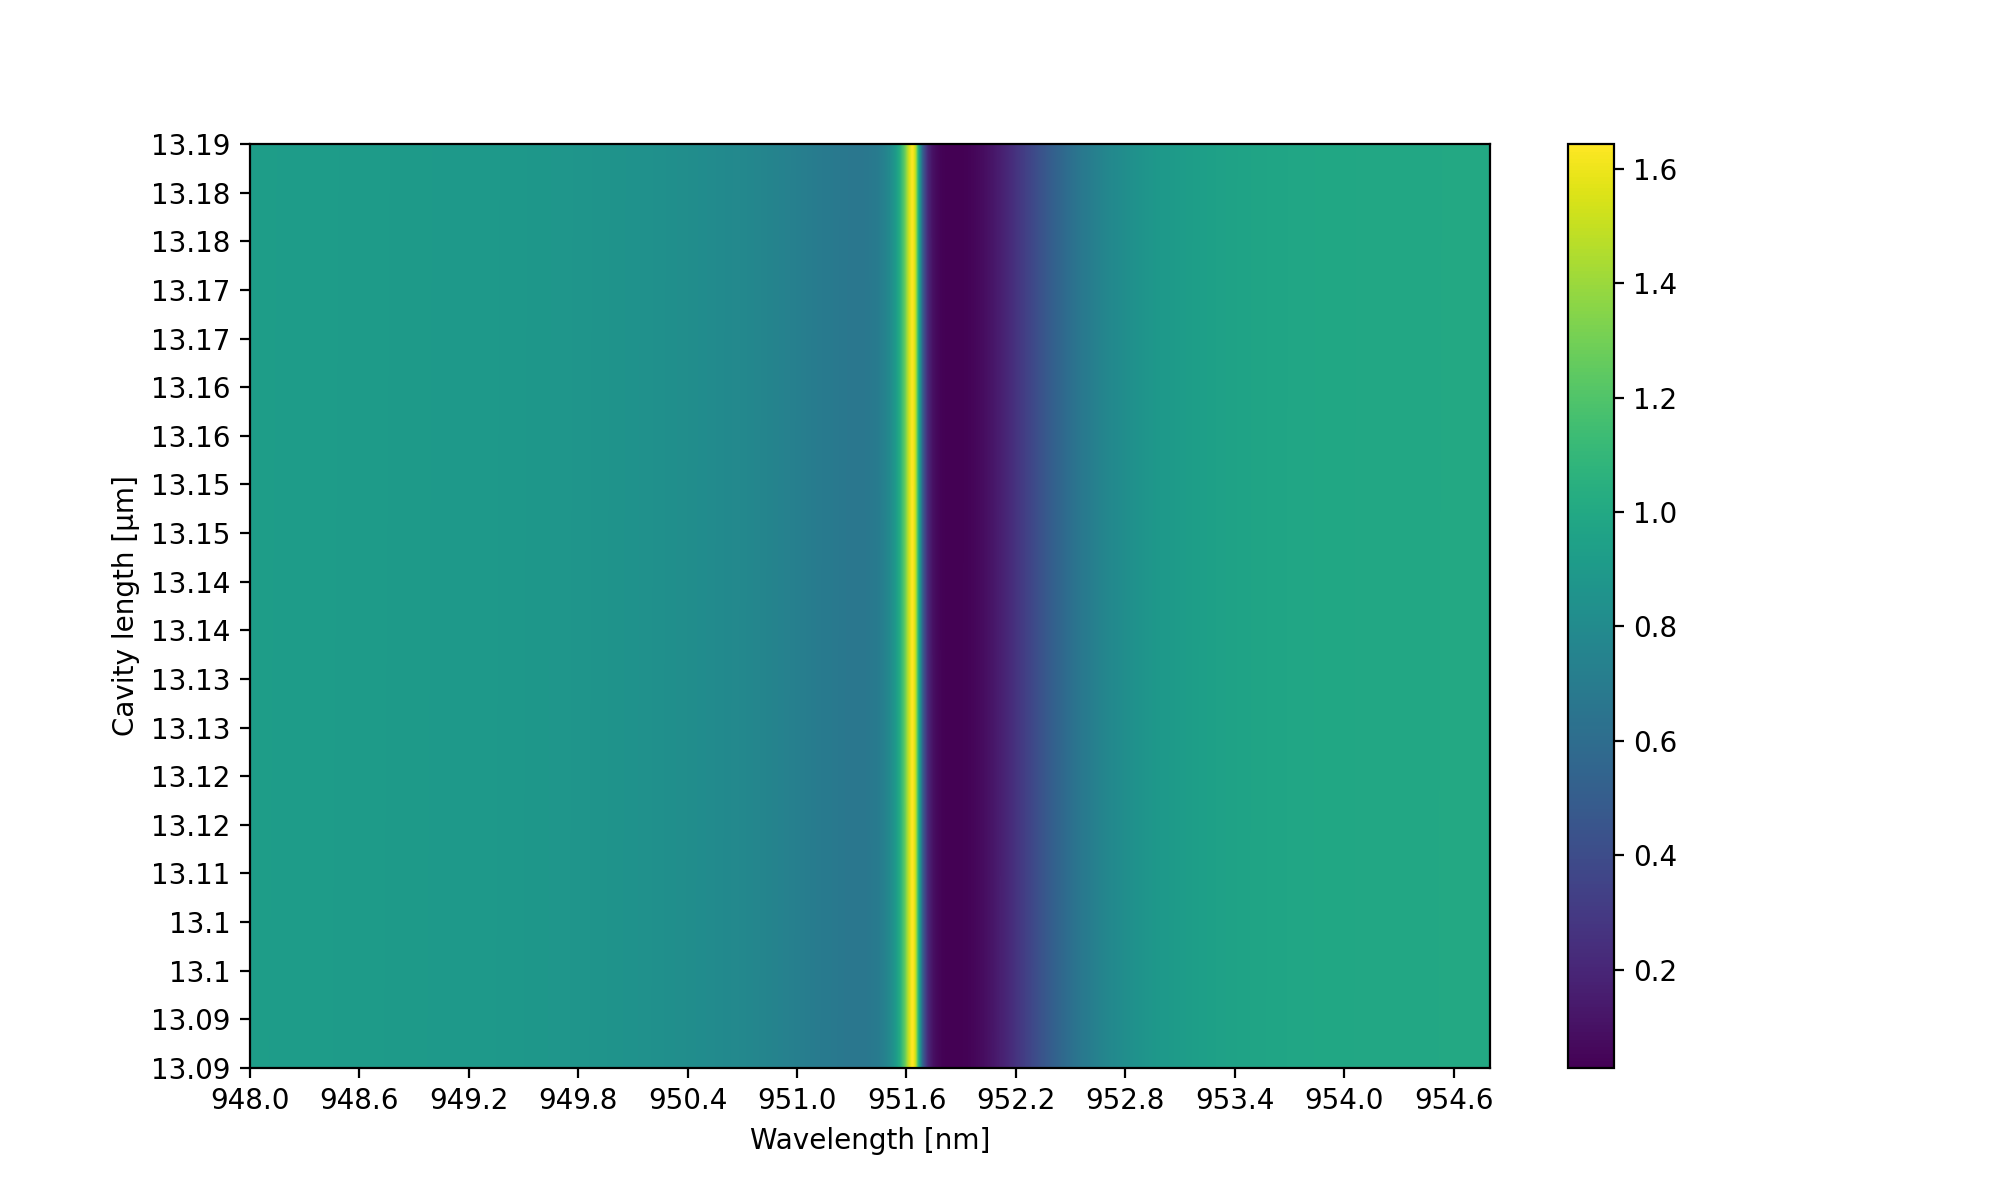
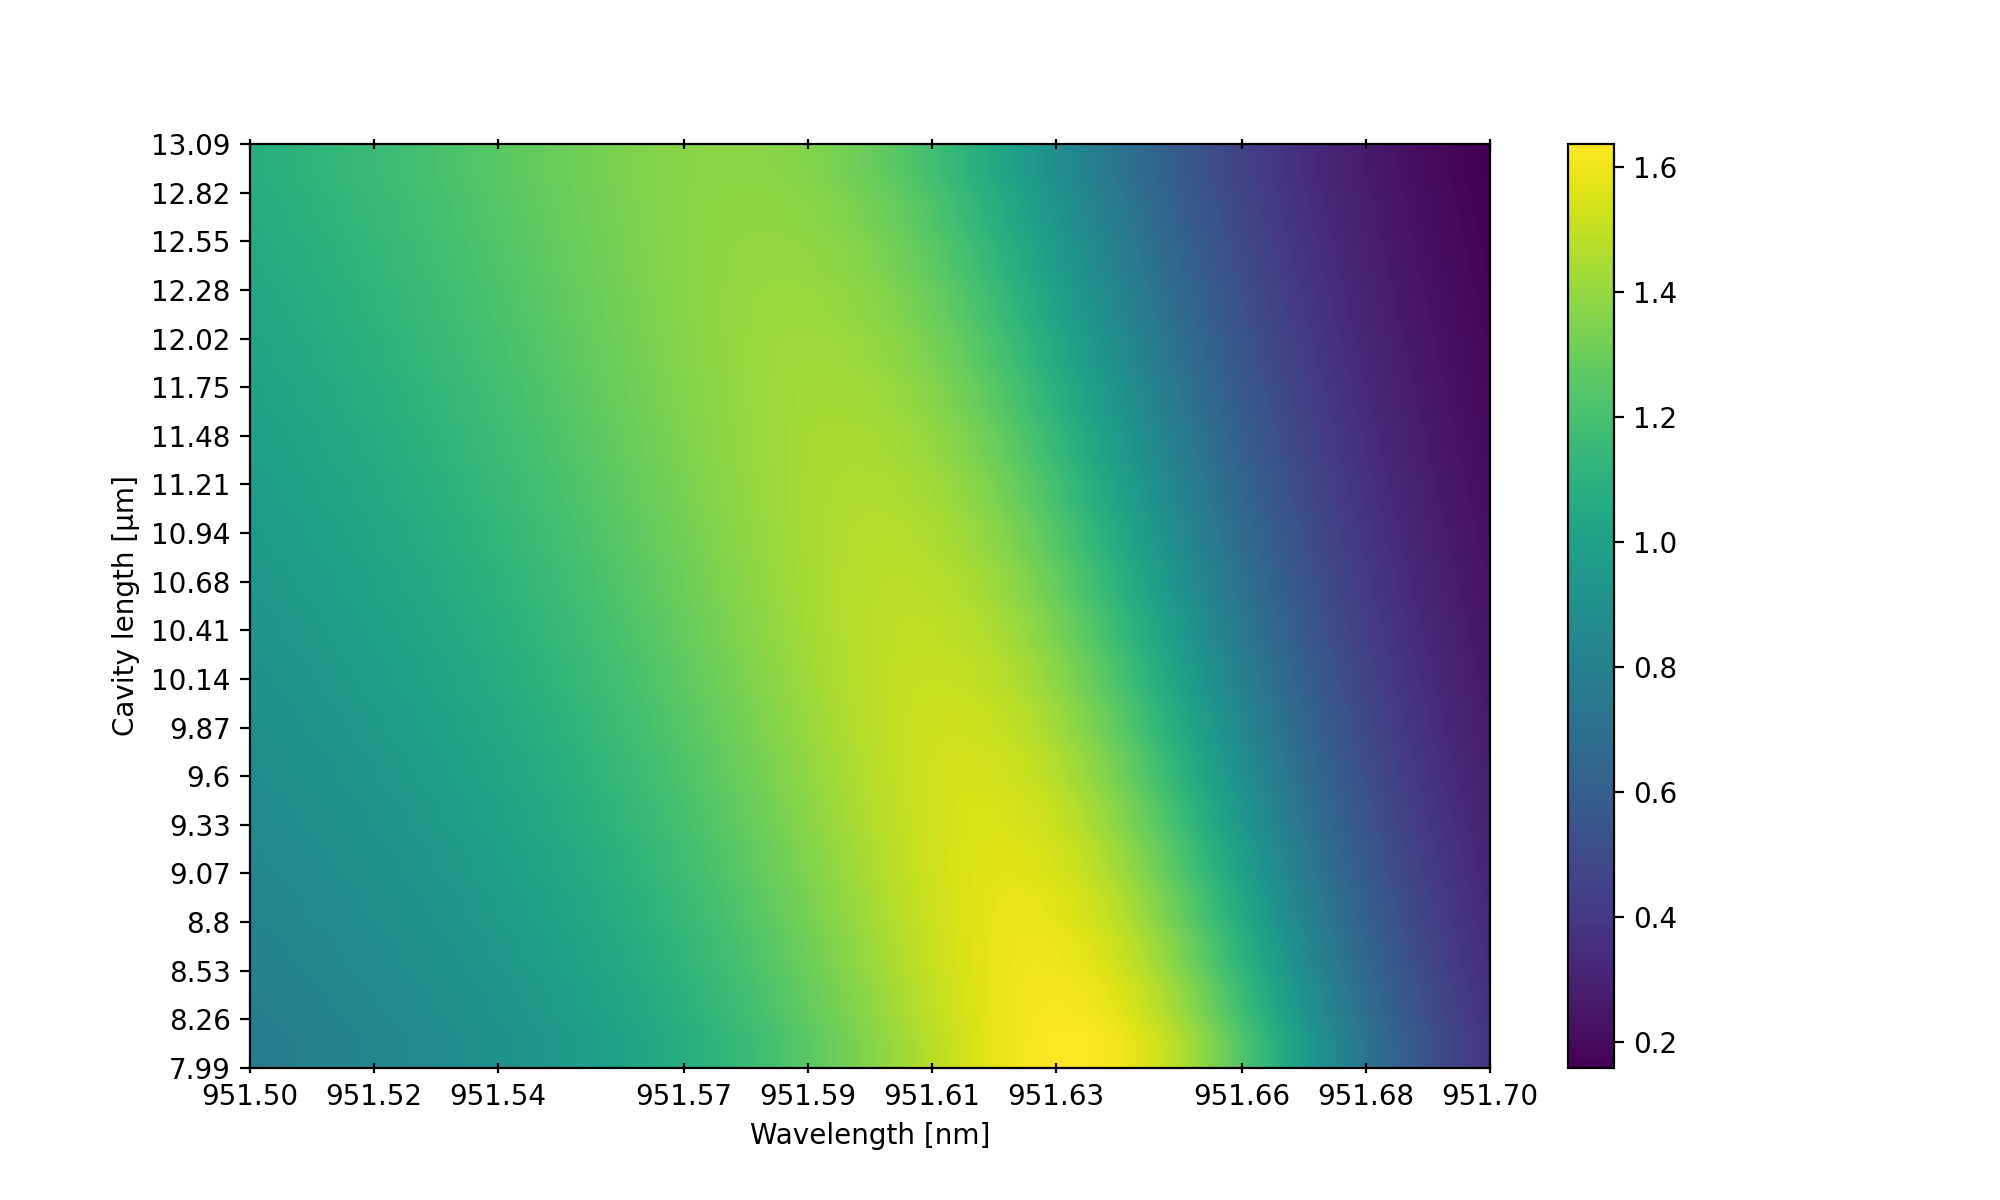
-

diff --git a/fano_theory.py b/fano_theory.py
@@ -5,8 +5,6 @@ from scipy.optimize import fsolve
 from scipy.optimize import curve_fit
 from scipy.signal import find_peaks
 
-## grating -> 400um, batch 06, M3
-
 M1 = fano("/Users/mikkelodeon/optomechanics/400um gratings/Data/M1/400_M1 trans.txt")
 M2 = fano("/Users/mikkelodeon/optomechanics/400um gratings/Data/M2/400_M2 trans.txt")
 M3 = fano("/Users/mikkelodeon/optomechanics/400um gratings/Data/M3/400_M3 trans.txt")
@@ -14,7 +12,7 @@ M4 = fano("/Users/mikkelodeon/optomechanics/400um gratings/Data/M4/400_M4 trans.
 M5 = fano("/Users/mikkelodeon/optomechanics/400um gratings/Data/M5/400_M5 trans.txt")
 
 params1 = M3.lossy_fit([952,952,0.6,1,0.1])
-params2 = M3.lossy_fit([952,952,0.6,1,0.1])
+params2 = M5.lossy_fit([952,952,0.6,1,0.1])
 params2[1] = params2[1] 
 params2[0] = params2[0] 
 
@@ -30,7 +28,7 @@ params2[0] = params2[0]
 #grating1 = [950, 950, 0.81, 0.48, 9e-7]
 #grating2 = [950+Δ, 950+Δ, 0.81, 0.48, 9e-7]   
 
-λs_range = np.linspace(948,954.8,1000)
+λs_range = np.linspace(951.5,951.7,1000)
 
 def model(λ, λ0, λ1, td, γ, α): 
     k = 2*np.pi / λ
@@ -191,8 +189,8 @@ def l_vs_λ_cmaps(params1: list, params2: list):
     fig, ax = plt.subplots(rows,columns, figsize=(18,8))
     for i in range(rows):
         for j in range(columns):
-            params2[1] = params2[1] - Δs
-            Δ_label -= Δs
+            params2[1] = params2[1] + Δs
+            Δ_label += Δs
             ls = np.linspace(resonant_cavity_length(params1), resonant_cavity_length(params2), 20)
             Ts = []
             λs = 0
@@ -220,7 +218,7 @@ def l_vs_λ_cmaps(params1: list, params2: list):
     fig.subplots_adjust(right=0.8)
     cbar_ax = fig.add_axes([0.85, 0.15, 0.02, 0.7])
     fig.colorbar(im, cax=cbar_ax)
-    #fig.text(0.5, 0.93, 'Negative detuning (λ1 < λ0)', ha='center', va='center', fontsize=16) 
+    fig.text(0.5, 0.93, 'Positive detuning (λ1 > λ0)', ha='center', va='center', fontsize=16) 
     fig.text(0.5, 0.06, 'Wavelength [nm]', ha='center', va='center', fontsize=10)
     fig.text(0.08, 0.5, 'Cavity length [μm]', ha='center', va='center', fontsize=10, rotation="vertical")
     plt.show()
@@ -242,12 +240,15 @@ def double_fano_cmap(ls: list, params1: list, params2: list):
             cmap[h,k] = Ts[h][k] 
 
     l_labels = [round(l,2) for l in ls]
-    λ_labels = np.arange(np.min(λs), np.max(λs),0.6)
+    λ_labels = np.linspace(np.min(λs), np.max(λs),10)
     λ_labels = [round(label,2) for label in λ_labels]
 
     plt.imshow(cmap, aspect="auto", extent=[np.min(λs), np.max(λs), np.min(ls), np.max(ls)])
     plt.xticks(λ_labels)
     plt.yticks(ls, l_labels)
+    ax = plt.gca()
+    ax.xaxis.set_ticks_position("both")
+    ax.tick_params(axis='x', direction='inout', which='both')
     plt.xlabel("Wavelength [nm]")
     plt.ylabel("Cavity length [μm]")
     plt.colorbar()
@@ -259,9 +260,9 @@ ls = np.linspace(resonant_cavity_length(params1), resonant_cavity_length(params2
 length = resonant_cavity_length(params1)
 
 #detuning_plot(Δs)
-cavity_length_plot(ls, params1, params2)
+#cavity_length_plot(ls, params1, params2)
 #l_vs_λ_cmaps(params1,params2)
-#double_fano_cmap(ls, params1, params2)
+double_fano_cmap(ls, params1, params2)
 #λs1, Ts1 =  fano_cavity_transmission(params1)
 #λs2, Ts2 =  dual_fano_transmission(params1, params2, length)
 #plt.figure(figsize=(10,6))
